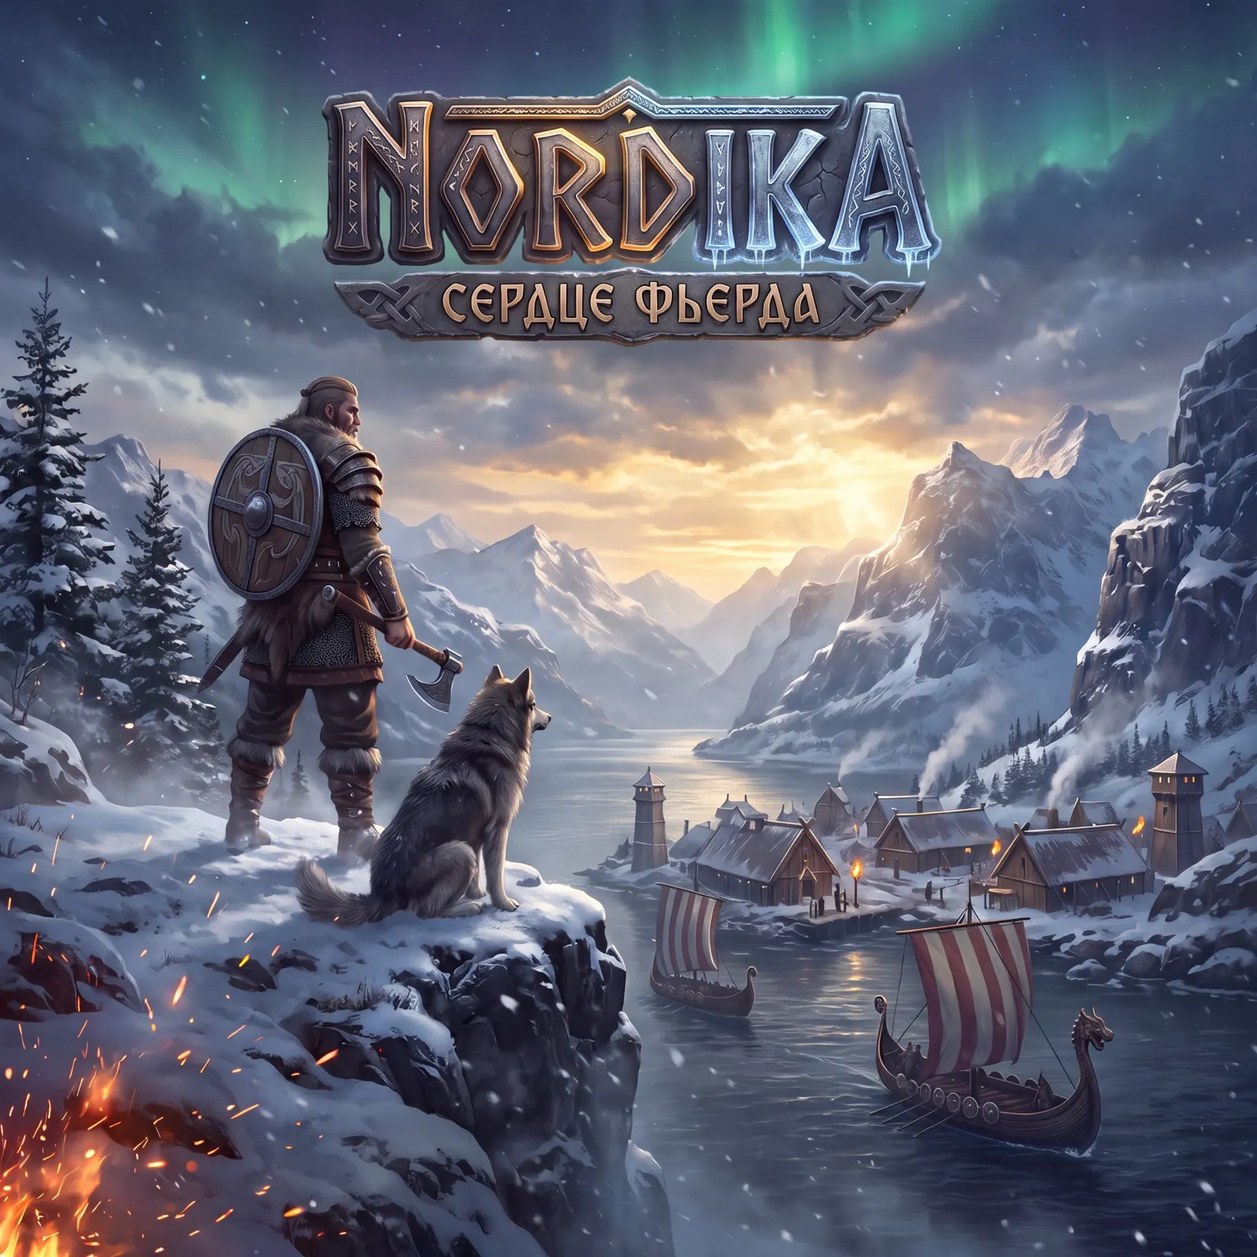
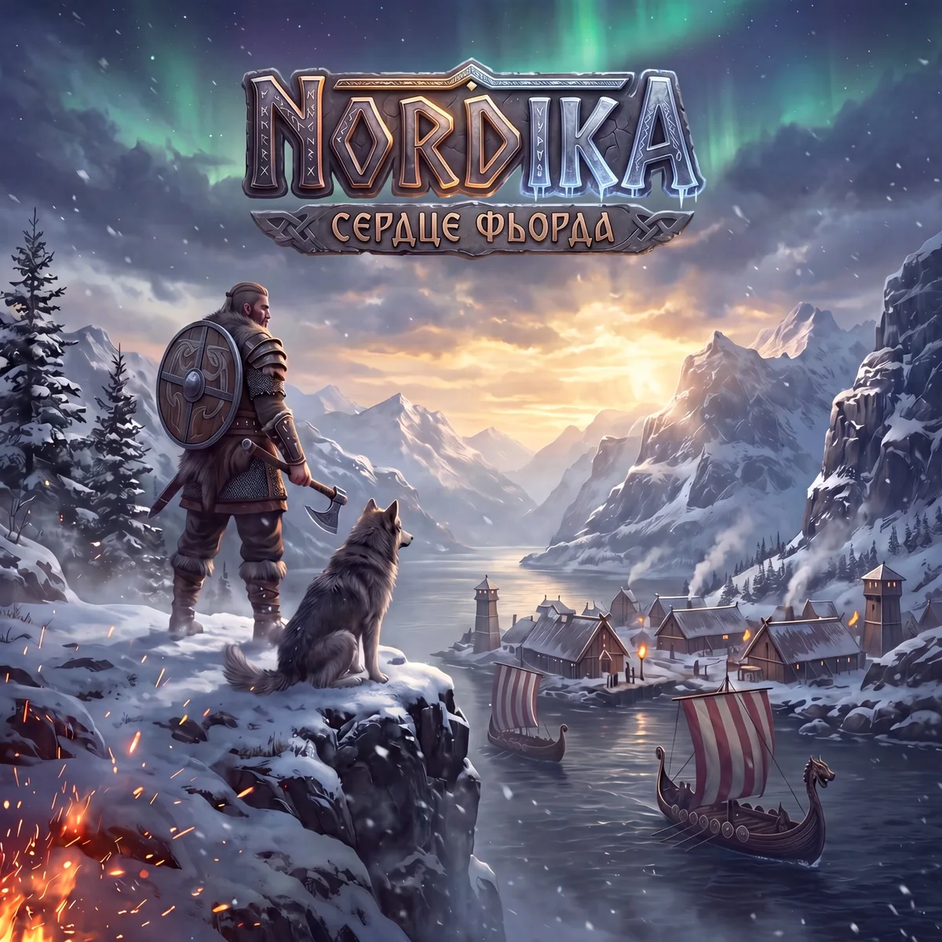
Название «фьорда», новый логотип и арт
Claude-Session: https://claude.ai/code/session_01YSRZeNRn6kRHstMejnWoTk

diff --git a/public/site.html b/public/site.html
@@ -3,16 +3,16 @@
 <head>
 <meta charset="utf-8">
 <meta name="viewport" content="width=device-width,initial-scale=1,viewport-fit=cover">
-<title>Nordika: сердце фьерда — браузерная игра про викингов</title>
-<meta name="description" content="Nordika: сердце фьерда — бесплатная браузерная стратегия про викингов на телефон. Стройте фьерд, собирайте дружину, вступайте в кланы и ходите в походы. Играйте онлайн или скачайте приложение для Android.">
-<meta name="keywords" content="Nordika, Нордика, игра про викингов, браузерная стратегия, стратегия на телефон, кланы, фьерд, скачать игру Android">
+<title>Nordika: сердце фьорда — браузерная игра про викингов</title>
+<meta name="description" content="Nordika: сердце фьорда — бесплатная браузерная стратегия про викингов на телефон. Стройте фьорд, собирайте дружину, вступайте в кланы и ходите в походы. Играйте онлайн или скачайте приложение для Android.">
+<meta name="keywords" content="Nordika, Нордика, игра про викингов, браузерная стратегия, стратегия на телефон, кланы, фьорд, скачать игру Android">
 <link rel="canonical" href="https://nordika-mobile.ru/">
 <meta name="theme-color" content="#0d1114">
 <meta name="yandex-verification" content="0d2a321affeadb93" />
 <meta property="og:type" content="website">
 <meta property="og:site_name" content="Nordika">
 <meta property="og:locale" content="ru_RU">
-<meta property="og:title" content="Nordika: сердце фьерда">
+<meta property="og:title" content="Nordika: сердце фьорда">
 <meta property="og:description" content="Браузерная стратегия про викингов. Играйте онлайн или скачайте приложение для Android.">
 <meta property="og:url" content="https://nordika-mobile.ru/">
 <meta property="og:image" content="https://nordika-mobile.ru/img/cover.jpg">
@@ -22,7 +22,7 @@
 <link rel="icon" href="/icon.svg" type="image/svg+xml">
 <link rel="apple-touch-icon" href="/icon-192.png">
 <script type="application/ld+json">
-{"@context":"https://schema.org","@type":"VideoGame","name":"Nordika: сердце фьерда","alternateName":"Nordika","description":"Браузерная стратегия про викингов: стройте фьерд, собирайте дружину, вступайте в кланы и ходите в походы.","url":"https://nordika-mobile.ru/","image":"https://nordika-mobile.ru/img/cover.jpg","inLanguage":"ru","genre":["Стратегия","Многопользовательская игра"],"applicationCategory":"Game","operatingSystem":"Android, iOS, Web","gamePlatform":["Web browser","Android"],"playMode":"MultiPlayer","offers":{"@type":"Offer","price":"0","priceCurrency":"RUB"}}
+{"@context":"https://schema.org","@type":"VideoGame","name":"Nordika: сердце фьорда","alternateName":"Nordika","description":"Браузерная стратегия про викингов: стройте фьорд, собирайте дружину, вступайте в кланы и ходите в походы.","url":"https://nordika-mobile.ru/","image":"https://nordika-mobile.ru/img/cover.jpg","inLanguage":"ru","genre":["Стратегия","Многопользовательская игра"],"applicationCategory":"Game","operatingSystem":"Android, iOS, Web","gamePlatform":["Web browser","Android"],"playMode":"MultiPlayer","offers":{"@type":"Offer","price":"0","priceCurrency":"RUB"}}
 </script>
 <style>
 :root{--bg:#0b0f13;--stone:#161c22;--stone2:#1e262d;--line:#33414c;--fg:#ece6d6;--dim:#a2adb4;--gold:#d9a441;--gold2:#f2cd75;--rune:#58d6ff}
@@ -132,11 +132,11 @@ section[id]{scroll-margin-top:96px}
   <nav class="nav" aria-label="Разделы сайта"><a href="#news">Новости</a><a href="#features">Особенности</a><a href="#status">Сервер</a><a href="#top">Рейтинг</a><a href="#start">Как начать</a><a href="#dl">Скачать</a></nav>
 </header>
 <section class="hero">
-  <div class="bg" role="img" aria-label="Викинг с волком над заснеженным фьердом, северное сияние, драккары у деревни"><i></i></div>
+  <div class="bg" role="img" aria-label="Викинг с волком над заснеженным фьордом, северное сияние, драккары у деревни"><i></i></div>
   <canvas id="snow" aria-hidden="true"></canvas>
   <div class="in">
-    <h1>Nordika: сердце фьерда</h1>
-    <p class="lead">Браузерная стратегия про викингов. Стройте фьерд, собирайте дружину, объединяйтесь в кланы и ходите в походы.</p>
+    <h1>Nordika: сердце фьорда</h1>
+    <p class="lead">Браузерная стратегия про викингов. Стройте фьорд, собирайте дружину, объединяйтесь в кланы и ходите в походы.</p>
     <div class="cta">
       <a class="btn main" id="dl" href="/nordika.apk" download><span class="r">ᛉ</span>Скачать для Android</a>
       <a class="btn alt" href="/play"><span class="r">ᚱ</span>Играть в браузере</a>
@@ -152,7 +152,7 @@ section[id]{scroll-margin-top:96px}
 
   <section id="features"><h2 class="u">Особенности</h2>
   <div class="grid">
-    <div class="card"><b>Ваш фьерд</b><span>10 зданий и 30 уровней развития. Палата ярла растёт вместе с вами и меняет облик.</span></div>
+    <div class="card"><b>Ваш фьорд</b><span>10 зданий и 30 уровней развития. Палата ярла растёт вместе с вами и меняет облик.</span></div>
     <div class="card"><b>Дружина и герой</b><span>Ополченцы, охотники и всадники семи ступеней. Герой с навыками ведёт отряд в бой.</span></div>
     <div class="card"><b>Кланы и общение</b><span>Общий чат, клановый чат, друзья, личные сообщения и помощь в стройке.</span></div>
     <div class="card"><b>Походы и добыча</b><span>Сбор ресурсов, охота на разбойников и набеги на других игроков. Чем дальше цель, тем дольше путь.</span></div>
@@ -178,7 +178,7 @@ section[id]{scroll-margin-top:96px}
     <div><h3>Разделы</h3><a href="#news">Новости</a><a href="#features">Особенности</a><a href="#start">Как начать</a></div>
     <div id="contact"><h3>Связь</h3><a href="/play">Чат в игре</a></div>
   </div>
-  <p class="copy">© Nordika: сердце фьерда · <a href="/privacy" style="color:inherit">Политика конфиденциальности</a> · <a href="/terms" style="color:inherit">Пользовательское соглашение</a></p>
+  <p class="copy">© Nordika: сердце фьорда · <a href="/privacy" style="color:inherit">Политика конфиденциальности</a> · <a href="/terms" style="color:inherit">Пользовательское соглашение</a></p>
 </main>
 
 <script>

diff --git a/public/index.html b/public/index.html
@@ -7,8 +7,8 @@
 <link rel="manifest" href="/manifest.webmanifest">
 <link rel="icon" href="/icon.svg" type="image/svg+xml">
 <link rel="apple-touch-icon" href="/icon-192.png">
-<title>Играть в Nordika: сердце фьерда онлайн</title>
-<meta name="description" content="Nordika: сердце фьерда — браузерная стратегия про викингов. Вход и регистрация, играйте бесплатно с телефона.">
+<title>Играть в Nordika: сердце фьорда онлайн</title>
+<meta name="description" content="Nordika: сердце фьорда — браузерная стратегия про викингов. Вход и регистрация, играйте бесплатно с телефона.">
 <link rel="canonical" href="https://nordika-mobile.ru/play">
 <link rel="stylesheet" href="https://fonts.googleapis.com/css2?family=Noto+Sans+Runic&display=swap">
 <style>
@@ -395,8 +395,8 @@ canvas.pic[data-b="farm"],canvas.pic[data-b="sawmill"]{animation:bldSway 6s ease
 <body>
 <div id="authbg" hidden><video id="authV" muted loop playsinline preload="auto" poster="/login-poster.jpg" disablepictureinpicture><source src="/login.mp4" type="video/mp4"></video></div>
 <div id="auth" hidden>
-  <div class="lg lgs"><img data-l="logo" alt="Nordika: сердце фьерда"></div>
-  <h1 class="vh">Nordika: сердце фьерда</h1>
+  <div class="lg lgs"><img data-l="logo" alt="Nordika: сердце фьорда"></div>
+  <h1 class="vh">Nordika: сердце фьорда</h1>
   <p class="sub">Стратегия про викингов. Стройте деревню, собирайте дружину, ходите в походы и грабьте соседей.</p>
   <div class="tabs2"><button class="btn on" id="tabLogin" type="button">Вход</button><button class="btn ghost" id="tabReg" type="button">Новая игра</button></div>
   <div class="field"><label for="in-name">Имя ярла</label><input id="in-name" autocomplete="username" maxlength="16" autocapitalize="off"></div>
@@ -410,7 +410,7 @@ canvas.pic[data-b="farm"],canvas.pic[data-b="sawmill"]{animation:bldSway 6s ease
   <header id="head">
     <div class="hgrid">
       <div class="hs hl"><button class="av fr0" id="av" data-act="me" type="button" aria-label="Профиль"><img id="avi" alt="" hidden><span class="ph">ᛟ</span></button><button class="swbtn" data-act="me" type="button">Профиль</button><button class="swbtn" id="lg" data-act="tab" data-arg="log" type="button">Хроника</button></div>
-      <div class="hm"><div id="logo" class="lg" hidden><img data-l="logo" alt="Nordika: сердце фьерда"><img class="ov a" data-l="logo-c1" alt=""><img class="ov b" data-l="logo-c2" alt=""><img class="ov c" data-l="logo-c3" alt=""><img class="ov b" data-l="logo-r1" alt=""><img class="ov c" data-l="logo-r2" alt=""><img class="ov a" data-l="logo-r3" alt=""><img class="ov d" data-l="logo-s1" alt=""><img class="ov e" data-l="logo-s2" alt=""><img class="ov f" data-l="logo-f" alt=""></div><h1 id="h1">Nordika</h1></div>
+      <div class="hm"><div id="logo" class="lg" hidden><img data-l="logo" alt="Nordika: сердце фьорда"></div><h1 id="h1">Nordika</h1></div>
       <div class="hs hr"><span class="haste" title="Руны времени: каждая сокращает любой таймер на 5 минут"><span><i class="rn glow d2">ᛞ</i> <b id="hasteN">0</b></span><small>Ускорение</small></span><button class="gembtn" data-act="tab" data-arg="shop" aria-label="Магазин"><span><i class="rn glow d1">ᛝ</i> <b id="gemN">0</b></span><small id="vipN">Магазин</small></button><button class="gembtn tpbtn" data-act="top" aria-label="Топ"><span><i class="rn glow d3">ᚦ</i></span><small>Топ</small></button><button class="swbtn" id="snd" data-act="snd" type="button" aria-label="Звук и музыка">♪</button></div>
     </div>
     <div class="res" id="res"></div>
@@ -1694,7 +1694,7 @@ function onAct(act,arg){
     case 'go':{const id=ui.modal,s=readSend(),n=S.marches.length;closeModal();ui.tab='map';act2('march',{id,send:s}).then(()=>{if(S.marches.length>n&&window.Snd)Snd.sfx('march');});return;}
     case 'train':act2('train',{k:arg,n:ui.tn[arg]});return;
     case 'logout':logout(false);return;
-    case 'invshare':{const l=inviteLink(),txt='Играй со мной в Nordika: сердце фьерда, стратегию про викингов. Ссылка: '+l;
+    case 'invshare':{const l=inviteLink(),txt='Играй со мной в Nordika: сердце фьорда, стратегию про викингов. Ссылка: '+l;
       if(navigator.share){navigator.share({title:'Nordika',text:txt,url:l}).catch(()=>{});}
       else{try{navigator.clipboard.writeText(l).then(()=>toast('Ссылка скопирована'),()=>{const i=$('invl');if(i){i.select();}toast('Выделите и скопируйте ссылку');});}catch(e){const i=$('invl');if(i)i.select();}}return;}
     case 'snd':sndCycle();return;
@@ -1705,7 +1705,7 @@ function onAct(act,arg){
 }
 function act2(a,arg){return act(a,arg);}
 function boot(){
-  document.querySelectorAll('img[data-l]').forEach(i=>{i.src=(window.LOGO&&LOGO[i.dataset.l])||('/img/'+i.dataset.l+'.webp');});
+  document.querySelectorAll('img[data-l]').forEach(i=>{i.src=(window.LOGO&&LOGO[i.dataset.l])||('/img/'+i.dataset.l+'.webp?v=2');});
   buildStatic();
   $('view').addEventListener('scroll',()=>{
     ui.sat=Date.now();

diff --git a/server.js b/server.js
@@ -1,5 +1,5 @@
 'use strict';
-/* Сервер «Nordika: сердце фьерда». Без внешних пакетов: нужен только Node.js 18 или новее.
+/* Сервер «Nordika: сердце фьорда». Без внешних пакетов: нужен только Node.js 18 или новее.
    Запуск: node server.js
    Настройки через переменные окружения: PORT (по умолчанию 3000), TIME_MUL (темп игры, по умолчанию 10), DATA_DIR (где хранятся игроки). */
 const http = require('http');
@@ -200,7 +200,7 @@ const NEWS_FILE = path.join(DATA_DIR, 'news.json');
 let news; try { news = JSON.parse(fs.readFileSync(NEWS_FILE, 'utf8')); } catch (e) {
   const t = Date.now();
   news = [
-    { id: 'n1', t: t - 2 * 86400000, title: 'Открытие Nordika', text: 'Фьерд ждёт первых ярлов. Стройте деревню, собирайте дружину и ведите её в поход.' },
+    { id: 'n1', t: t - 2 * 86400000, title: 'Открытие Nordika', text: 'Фьорд ждёт первых ярлов. Стройте деревню, собирайте дружину и ведите её в поход.' },
     { id: 'n2', t: t - 86400000, title: 'Приложение для Android', text: 'Игру можно скачать на телефон прямо с этого сайта. Для iPhone есть установка на экран «Домой».' },
     { id: 'n3', t: t - 3600000, title: 'Чат, друзья и кланы', text: 'В игре появились общий чат, личные сообщения, друзья и кланы с помощью в стройке.' }
   ];

diff --git a/public/admin.html b/public/admin.html
@@ -114,7 +114,7 @@ function chatView(){
 }
 function sayView(){
   const nw=data.news;
-  return `<div class="card"><h2>Объявление в общий чат</h2><p class="muted sm">Сообщение появится от имени «Вести фьерда» у всех игроков.</p><textarea id="say" rows="3" maxlength="300" style="margin:8px 0"></textarea><button id="saygo">Отправить всем</button></div>
+  return `<div class="card"><h2>Объявление в общий чат</h2><p class="muted sm">Сообщение появится от имени «Вести фьорда» у всех игроков.</p><textarea id="say" rows="3" maxlength="300" style="margin:8px 0"></textarea><button id="saygo">Отправить всем</button></div>
   <div class="card"><h2>Новость на сайте</h2><input id="ntitle" maxlength="80" placeholder="Заголовок" style="margin-bottom:8px"><textarea id="ntext" rows="4" maxlength="600" placeholder="Текст новости" style="margin-bottom:8px"></textarea><button id="newsgo">Опубликовать</button></div>
   <div class="card"><h2>Новости на сайте</h2>${nw?nw.news.map(n=>`<div class="row"><div><p><b>${esc(n.title)}</b> <span class="muted sm">${fmtD(n.t)}</span></p><p class="muted sm">${esc(n.text)}</p></div><button class="s r" data-nd="${n.id}">×</button></div>`).join('')||'<p class="muted sm">Новостей нет.</p>':'<p class="muted">Загрузка…</p>'}</div>`;
 }

diff --git a/public/privacy.html b/public/privacy.html
@@ -3,7 +3,7 @@
 <head>
 <meta charset="utf-8">
 <meta name="viewport" content="width=device-width,initial-scale=1,viewport-fit=cover">
-<title>Политика конфиденциальности — Nordika: сердце фьерда</title>
+<title>Политика конфиденциальности — Nordika: сердце фьорда</title>
 <meta name="description" content="Какие данные собирает игра Nordika, зачем они нужны и как удалить аккаунт.">
 <link rel="canonical" href="https://nordika-mobile.ru/privacy">
 <meta name="theme-color" content="#0d1114">
@@ -27,7 +27,7 @@ li{margin:0 0 6px}
 <main>
 <div class="top"><a href="/">NORDIKA</a></div>
 <h1>Политика конфиденциальности</h1>
-<p class="d">Игра «Nordika: сердце фьерда». Последнее обновление: 14 ноября 2026 года.</p>
+<p class="d">Игра «Nordika: сердце фьорда». Последнее обновление: 14 ноября 2026 года.</p>
 <p>Эта политика объясняет, какие данные игра собирает и зачем. Мы собираем только то, что нужно для работы игры.</p>
 
 <h2>Какие данные мы получаем</h2>

diff --git a/public/terms.html b/public/terms.html
@@ -3,7 +3,7 @@
 <head>
 <meta charset="utf-8">
 <meta name="viewport" content="width=device-width,initial-scale=1,viewport-fit=cover">
-<title>Пользовательское соглашение — Nordika: сердце фьерда</title>
+<title>Пользовательское соглашение — Nordika: сердце фьорда</title>
 <meta name="description" content="Правила игры Nordika: аккаунт, поведение, игровые ценности, покупки.">
 <link rel="canonical" href="https://nordika-mobile.ru/terms">
 <meta name="theme-color" content="#0d1114">
@@ -27,7 +27,7 @@ li{margin:0 0 6px}
 <main>
 <div class="top"><a href="/">NORDIKA</a></div>
 <h1>Пользовательское соглашение</h1>
-<p class="d">Игра «Nordika: сердце фьерда». Последнее обновление: 14 ноября 2026 года.</p>
+<p class="d">Игра «Nordika: сердце фьорда». Последнее обновление: 14 ноября 2026 года.</p>
 <p>Играя в Nordika, вы соглашаетесь с этими правилами. Если вы не согласны, пожалуйста, не создавайте аккаунт.</p>
 
 <h2>1. Аккаунт</h2>

diff --git a/public/social.js b/public/social.js
@@ -149,7 +149,7 @@ const admin = {
   deleteWorld(st, t, pid) { st.world = st.world.filter(m => !(m.t === t && m.pid === pid)); },
   clearWorld(st, pid) { st.world = st.world.filter(m => m.pid !== pid); },
   dismissReport(st, id) { st.reports = st.reports.filter(r => r.id !== id); },
-  say(st, ctx, text) { st.world.push({ t: ctx.now(), pid: 'sys', name: 'Вести фьерда', tag: '', text: clean(text, 300), sys: true }); if (st.world.length > MAXW) st.world.splice(0, st.world.length - MAXW); }
+  say(st, ctx, text) { st.world.push({ t: ctx.now(), pid: 'sys', name: 'Вести фьорда', tag: '', text: clean(text, 300), sys: true }); if (st.world.length > MAXW) st.world.splice(0, st.world.length - MAXW); }
 };
 
 const API = { newStore, view, act, admin, MAXW };

diff --git a/ИНСТРУКЦИЯ.md b/ИНСТРУКЦИЯ.md
@@ -1,4 +1,4 @@
-# Как запустить «Nordika: сердце фьерда» на своём сервере
+# Как запустить «Nordika: сердце фьорда» на своём сервере
 
 Всё по шагам. Если на каком-то шаге что-то идёт не так, пришлите мне, что видите на экране, и я подскажу.
 
